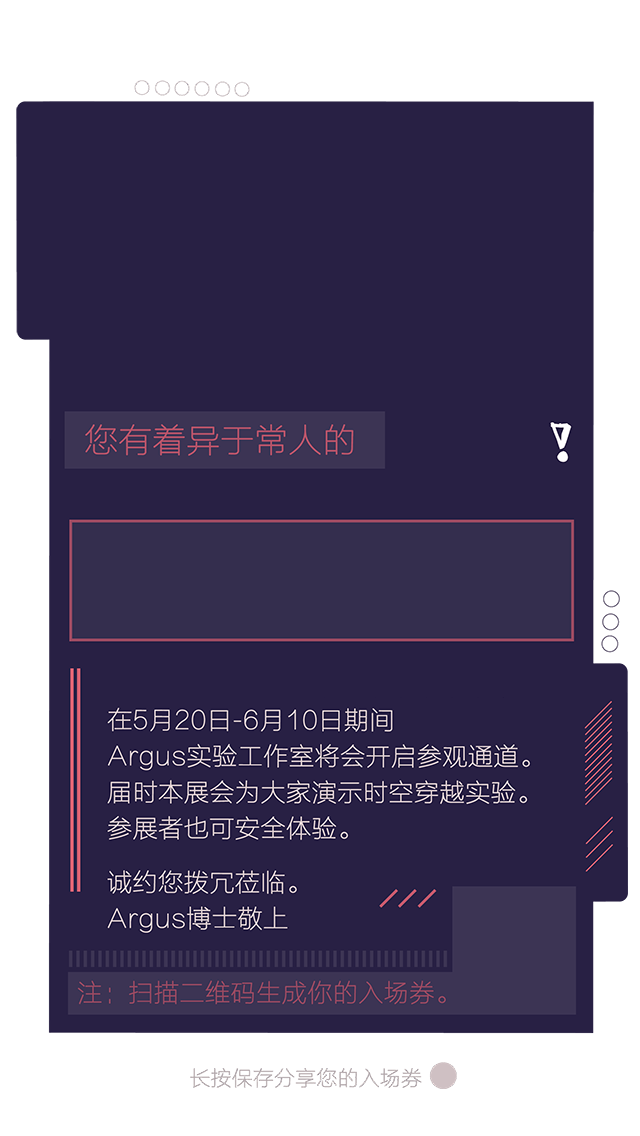
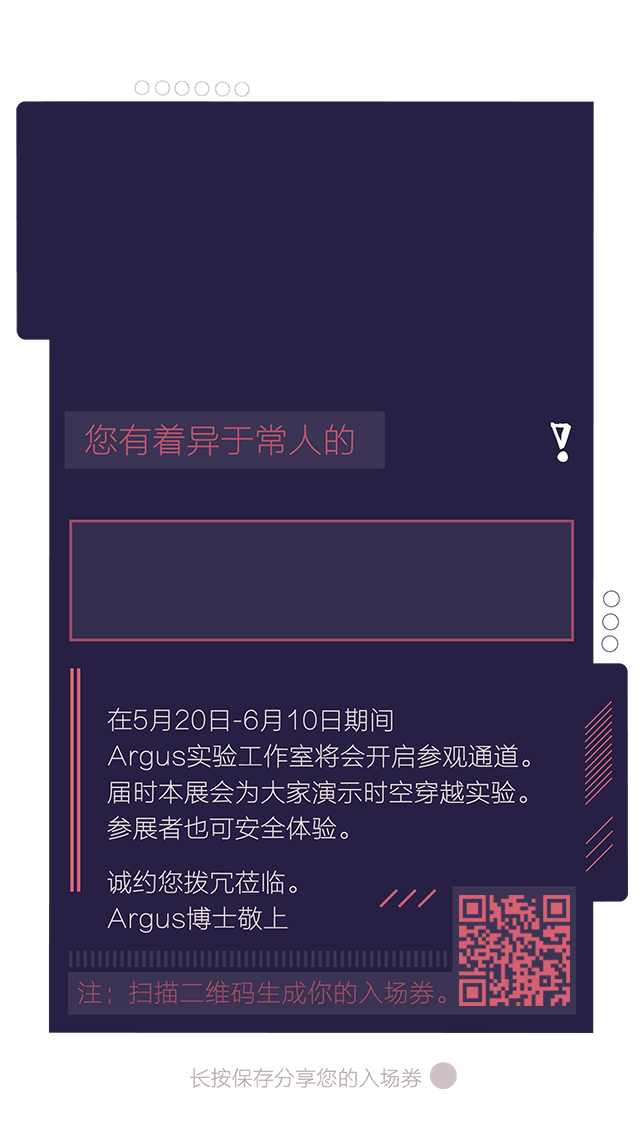
up lian

Changed region(s): [[0.7188, 0.7702, 0.9062, 0.8935]]

diff --git a/lian/pages/index/index.html b/lian/pages/index/index.html
@@ -5,9 +5,8 @@
 	<meta name="viewport" content="width=device-width,initial-scale=1.0,maximum-scale=1.0,minimum-scale=1.0,user-scalable=no" />
 	<title>问卷</title>
 	<link rel="stylesheet" type="text/css" href="css/style.css" />
-	<!-- <script src="../../js/vconsole.min.js"></script> -->
 	<script src="../../js/html2canvas.min.js"></script>
-	<!-- <script src="https://cdn.jsdelivr.net/npm/vue/dist/vue.js"></script> -->
+	<script src="https://cdn.bootcss.com/device.js/0.2.7/device.js"></script>
 </head>
 <body>
 <div class="content">
@@ -89,15 +88,9 @@
 		<div class="sex-item" data-sex="unknown">
 		</div>
 	</div>
-<!-- 	<div class="page result active" data-path="/result">
-		<img class="page-bg hide" async src="images/result/bg.png" />
-		<img class="content-bg" async src="images/result/content_bg.png" />
-		<img class="ticket-bg" async src="images/result/ticket_unknown.png" />
-		<img class="percept-bg" async src="images/result/percept_2d.png" />
-		<img class="conclude-bg" async src="images/result/conclusion_2d_1.png" />
-		<span class="username">旅行者bibibobo</span>
-	</div> -->
-	<!-- <img id="vue" class="hide" :src="src"/> -->
+	<div class="page scanCode" data-path="/scancode">
+		<img async data-src="images/scancode/bg.png" />
+	</div>
 </div>
 <canvas id="canvas" style="display: none !important;"></canvas>
 <script type="text/javascript">
@@ -115,6 +108,9 @@
 
 
 (function(){
+	if(device.desktop()){
+		navTo('/scancode');
+	}
 	// init page
 	var path = validatePath(sessionStorage.getItem('path'));
 	if(!path.legal || path.type==='result' || path.type==='default'){
@@ -335,7 +331,7 @@
 				type: 'default'
 			}
 		}
-		if(path==='/anime' || path==='/calculate' || path==='/result' || path==='/start' || path==='/sex'){
+		if(path==='/scancode' || path==='/anime' || path==='/calculate' || path==='/result' || path==='/start' || path==='/sex'){
 			return {
 				legal: true,
 				path: path,

diff --git a/lian/pages/index/css/style.css b/lian/pages/index/css/style.css
@@ -210,10 +210,10 @@ input{
 }
 @keyframes start-run-out{
   from{
-    transform: scale(1) rotate3d(0,1,0, 0);
+    transform: rotate3d(0,1,0, 0);
   }
   to{
-    transform: scale(0) rotate3d(0,1,0, 540deg);
+    transform: rotate3d(0,1,0, 180deg);
   }
 }
 .page[data-path='/start'].run-in{
@@ -221,10 +221,10 @@ input{
 }
 @keyframes start-run-in{
   from{
-    transform: scale(0) rotate3d(0,1,0, 0);
+    transform: rotate3d(0,1,0, -180deg);
   }
   to{
-    transform: scale(1) rotate3d(0,1,0, 720deg);
+    transform: rotate3d(0,1,0, 0deg);
   }
 }
 .startTest .page-bg{
@@ -391,12 +391,12 @@ body{
 }
 @keyframes ques-run-out{
   from{
-    transform-origin: 0 100%;
+    transform-origin: 50% 100%;
     transform: rotate3d(0,1,0,0);
   }
   to{
-    transform-origin: 0 100%;
-    transform: rotate3d(0,1,0,-150deg);
+    transform-origin: 50% 100%;
+    transform: rotate3d(0,1,0,-180deg);
   }
 }
 
@@ -411,10 +411,10 @@ body{
 }
 @keyframes sex-run-out{
   from{
-    transform: rotate(0deg) scale(1);
+    transform: scale(1);
   }
   to{
-    transform: rotate(720deg) scale(0);
+    transform: scale(0);
   }
 }
 .sex .sex-bg{
@@ -556,4 +556,18 @@ body{
   font-weight: 300;
   white-space: nowrap;
   overflow: hidden;
+}
+
+/*scancode page*/
+.page.scanCode{
+}
+.page.scanCode img{
+  width: 40%;
+  height: 50%;
+  position: absolute;
+  left: 50%;
+  top: 50%;
+  transform: translate(-50%, -50%);
+  object-fit: contain;
+  object-position: 50% 50%;
 }
